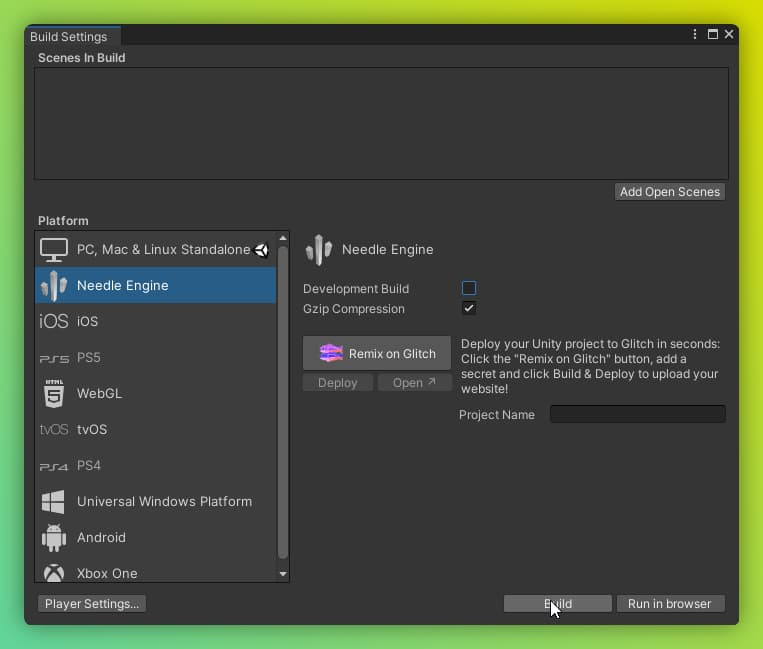
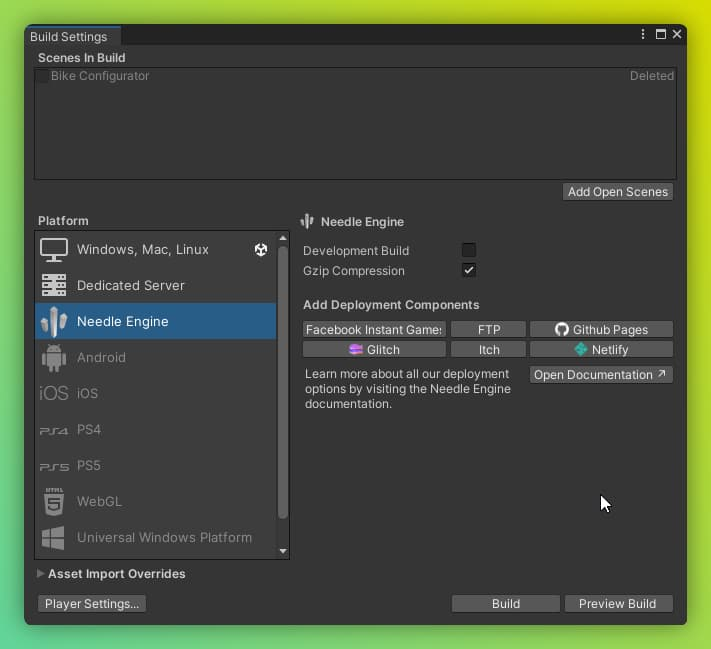
update build to folder docs

diff --git a/documentation/deployment.md b/documentation/deployment.md
@@ -22,26 +22,12 @@ Deployment is the process of making your application available to the public on 
   Games platform on Facebook and Facebook Messenger
 - [FTP Upload](#deploy-to-ftp)
   Deploy directly to any server with FTP support.
-- [Build to folder](#production-builds)
+- [Build to folder](#build-to-folder)
   Bring your project anywhere!
   
 ::: tip Feel something is missing? 
 Please let us know in our [discord](https://discord.needle.tools)!
 :::
-
-## Deploying to the web from Unity
-
-Open ``File/Build Settings`` and select ``Needle Engine`` for options!
-
-:::details Where do I find the Build Options in Unity?
-![image](/imgs/unity-build-window-menu.jpg)    
-![image](/imgs/unity-build-window.jpg)  
-::: 
-
-To build your web project for deployment to a web server you can click **Build** in the Unity Editor Build Settings Window.   
-You can enable the ``Development Build`` checkbox to omit compression (see below) which requires toktx to be installed on your machine.
-
-Nodejs is **only** required during development. The distributed website (using our default vite template) is a static page that doesn't rely on Nodejs and can be put on any regular web server. Nodejs is required if you want to run our minimalistic networking server on the same web server (automatically contained in the Glitch deployment process). 
 
 ## Development Builds
 
@@ -135,6 +121,7 @@ Select a Mesh and open the Needle importer options to see available options for 
 
 
 ## Deployment Options  
+
 
 
 ### Deploy to Glitch 🎏
@@ -319,6 +306,26 @@ Here you can find [the official instant games documentation](https://developers.
 **Note** that all you have to do is to create an app with instant games capabilities.  
 We will take care of everything else and no manual adjustments to your Needle Engine website are required.
 :::
+
+
+
+## Build To Folder
+
+
+In Unity open ``File/Build Settings`` and select ``Needle Engine`` for options:
+
+![image](/imgs/unity-build-window-menu.jpg)    
+
+![image](/imgs/unity-build-window.jpg)  
+
+ 
+
+To build your web project for uploading to any web server you can click **Build** in the Unity Editor Build Settings Window. You can enable the ``Development Build`` checkbox to omit compression (see below) which requires toktx to be installed on your machine.   
+
+To locally preview your final build you can use the `Preview Build` button at the bottom of the window. This button will first perform a regular build and then start a local server in the directory with the final files so you can see what you get once you upload these files to your webserver.
+
+Nodejs is **only** required during development. The distributed website (using our default vite template) is a static page that doesn't rely on Nodejs and can be put on any regular web server. Nodejs is required if you want to run our minimalistic networking server on the same web server (automatically contained in the Glitch deployment process). 
+
 
 ---
 
